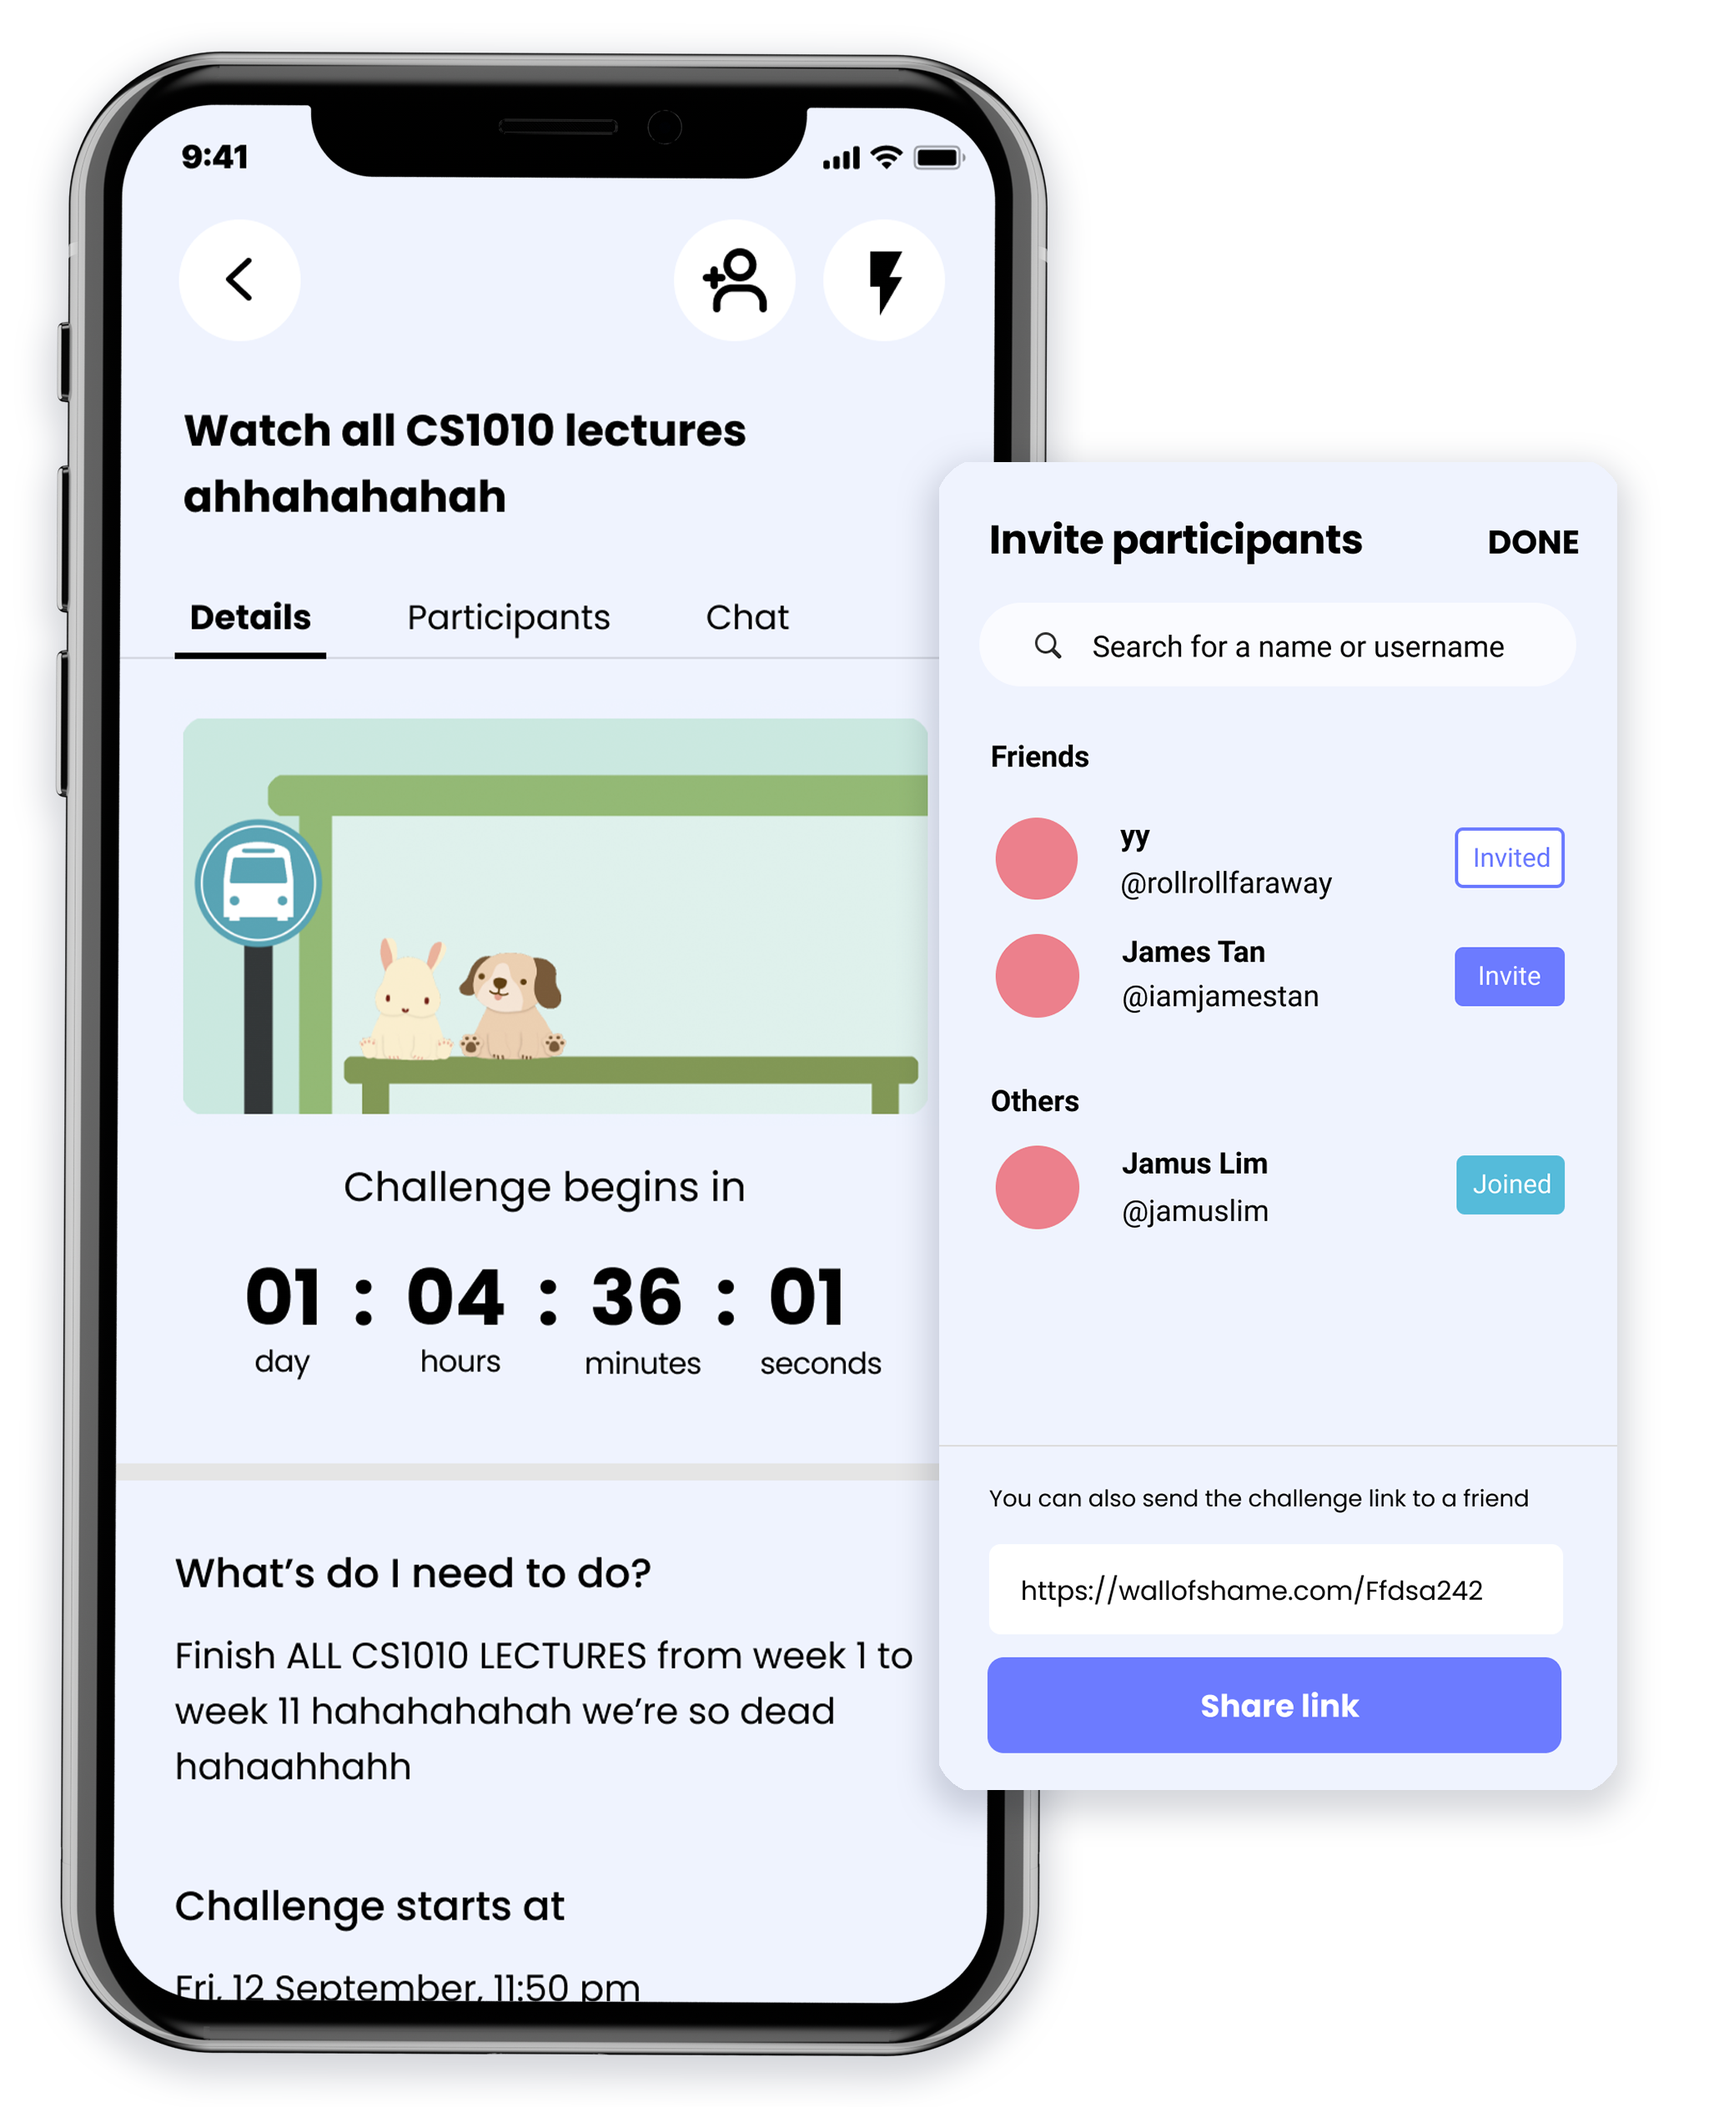
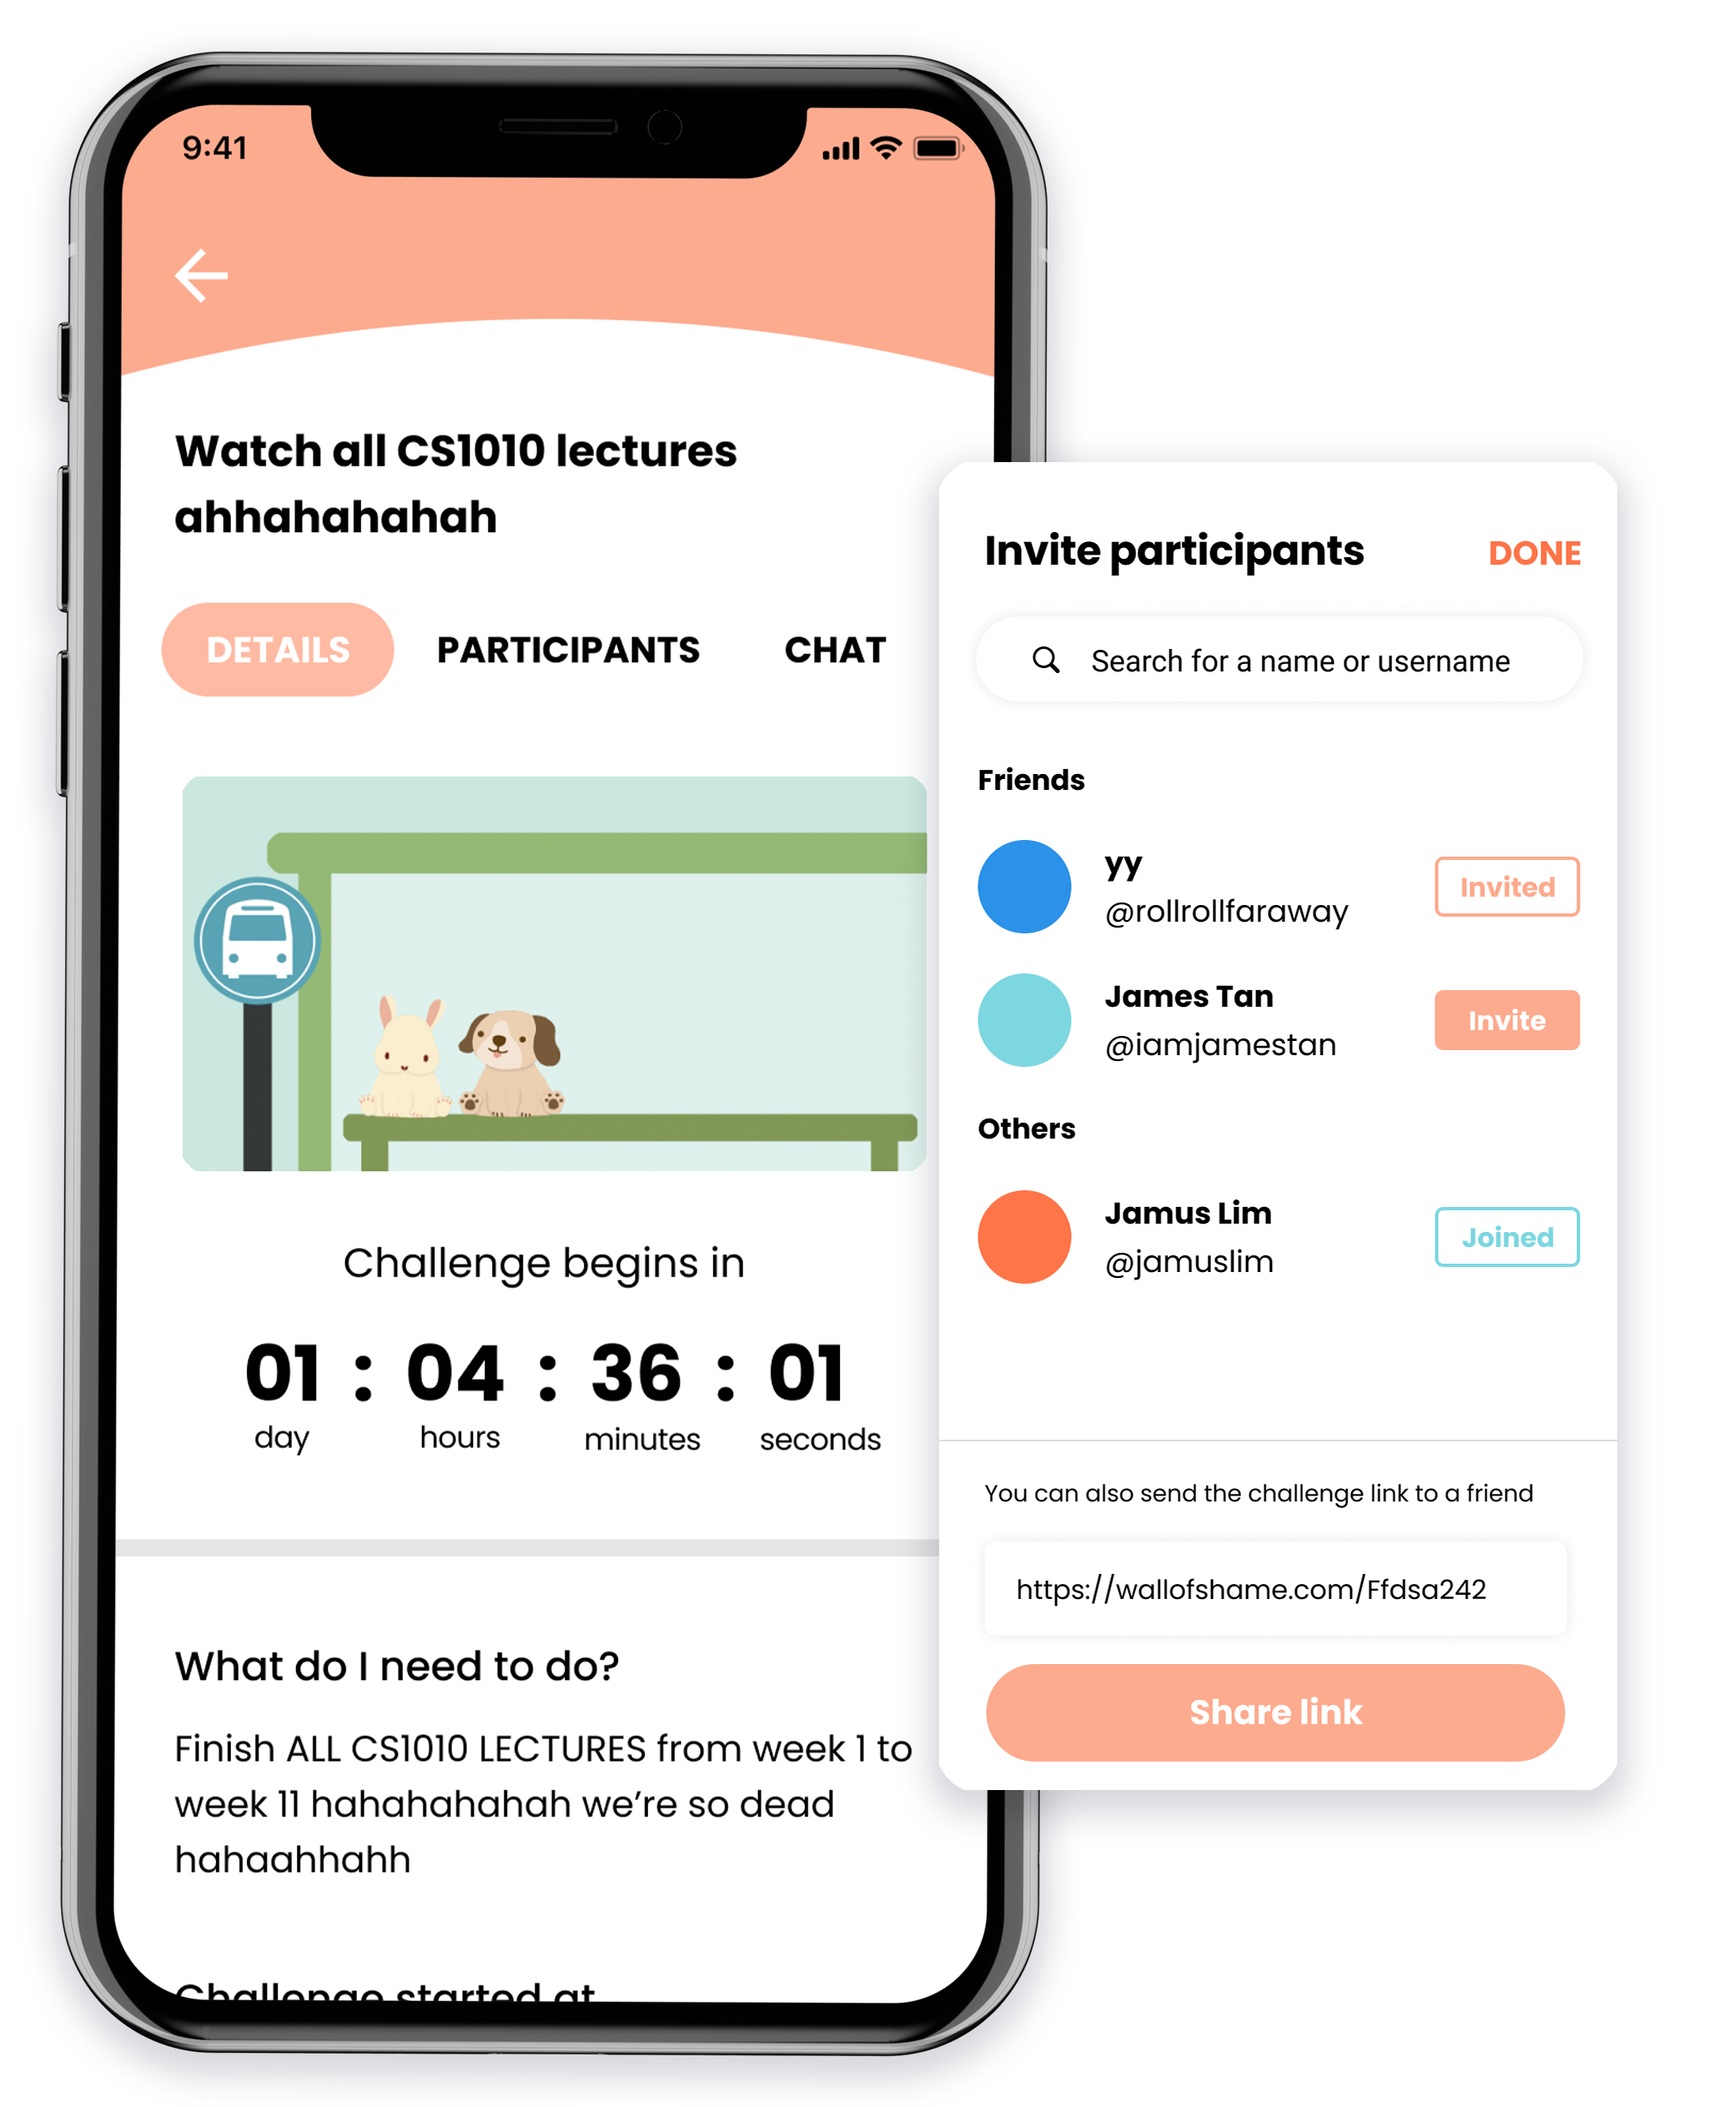
update landing page style

diff --git a/src/common/Button/styles.ts b/src/common/Button/styles.ts
@@ -1,12 +1,12 @@
 import styled from "styled-components";
 
 export const StyledButton = styled("button")<any>`
-  background: ${(p) => p.color || "#6C7BFF"};
+  background: ${(p) => p.color || "#ffbf2f"};
   color: #ffffff;
   font-size: 1rem;
   font-weight: 1000;
   width: 100%;
-  border: 1px solid ${(p) => p.color || "#6C7BFF"};
+  border: 1px solid ${(p) => p.color || "#ffbf2f"};
   border-radius: 10px;
   padding: 13px 0;
   cursor: pointer;
@@ -19,7 +19,7 @@ export const StyledButton = styled("button")<any>`
   &:active,
   &:focus {
     color: #fff;
-    border: 1px solid ${(p) => p.focusColor || "#55BBDA"};
-    background-color: ${(p) => p.focusColor || "#55BBDA"};
+    border: 1px solid ${(p) => p.focusColor || "#faa284"};
+    background-color: ${(p) => p.focusColor || "#faa284"};
   }
 `;

diff --git a/src/components/IntroBlock/styles.ts b/src/components/IntroBlock/styles.ts
@@ -2,7 +2,7 @@ import styled from "styled-components";
 
 export const IntroSection = styled("section")`
   padding: 4rem 0 0rem;
-  background-color: #e1e9ff;
+  background-color: #fff7f0;
 
   width: 100%;
 
@@ -41,7 +41,7 @@ export const MinPara = styled("p")`
 
 export const ButtonWrapper = styled("div")`
   display: flex;
-  justify-content: space-between;
+  justify-content: left;
   max-width: 100%;
   padding-bottom: 4rem;
 

diff --git a/src/styles/styles.ts b/src/styles/styles.ts
@@ -58,7 +58,7 @@ export const Styles = createGlobalStyle`
     h5,
     h6 {
         font-family: 'Poppins Extra Bold', serif;
-        color: #1d256b;
+        color: #ffbf2f;
         font-size: 56px;
         line-height: 1.18;
 
@@ -72,7 +72,7 @@ export const Styles = createGlobalStyle`
     }
 
     p {
-        color: #1d256b;
+        color: #413322;
         font-size: 21px;        
         line-height: 1.41;
     }

diff --git a/src/components/Header/styles.ts b/src/components/Header/styles.ts
@@ -4,7 +4,7 @@ import { MenuOutlined } from "@ant-design/icons";
 
 export const HeaderSection = styled("header")`
   padding: 1rem 0.5rem;
-  background-color: #e1e9ff;
+  background-color: #fff7f0;
 
   .ant-row-space-between {
     align-items: center;
@@ -51,7 +51,7 @@ export const Burger = styled("div")`
   display: none;
 
   svg {
-    fill: #6C7BFF;
+    fill: #ffbf2f;
   }
 `;
 

diff --git a/src/components/IntroBlock/index.tsx b/src/components/IntroBlock/index.tsx
@@ -35,8 +35,8 @@ const IntroBlock = () => {
               <Button
                 key='try'
                 fixedWidth={true}
-                color='#55BBDA'
-                focusColor='#6C7BFF'
+                color='#faa284'
+                focusColor='#ffbf2f'
                 onClick={handleRedirect}
               >
                 Try it now!

diff --git a/src/common/ColoredContainer/styles.ts b/src/common/ColoredContainer/styles.ts
@@ -1,7 +1,7 @@
 import styled from "styled-components";
 
 export const StyledContainer = styled("div")<any>`
-  background-color: #e1e9ff;
+  background-color: #fff7f0;
   position: relative;
   max-width: 100%;
   margin-right: auto;
